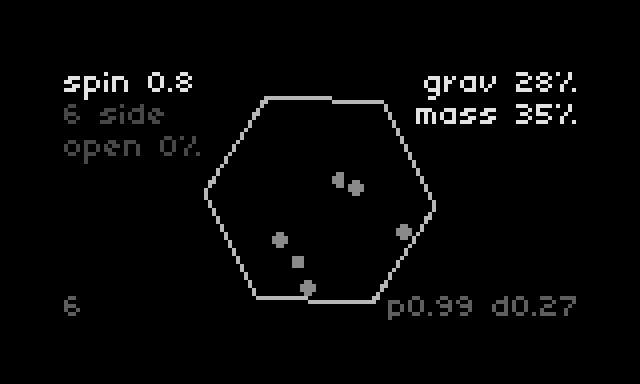
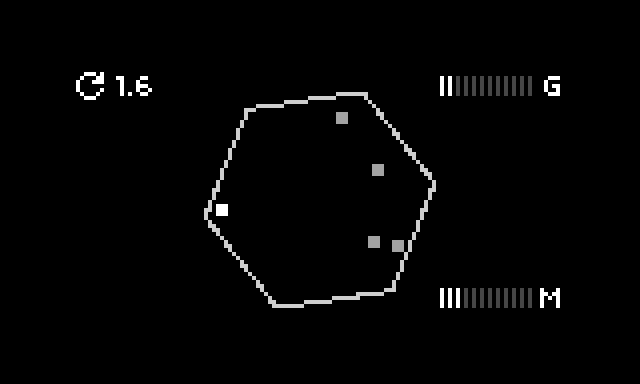
new screen, triangle opening fix, octaves, transpose and probability
- icon UI in lib/view.lua: spin arrow, G/M bars, K1 shows sides + open bottom left
- show cpu param replaces the debug row
- triangle no longer traps balls when opened (4+ sides unchanged)
- octaves (arp / random / by wall), transpose and probability params
- K2 always drops one ball
- updated screenshot

diff --git a/README.md b/README.md
@@ -6,9 +6,9 @@ a tombola sequencer for norns. drop notes into a spinning shape and they tumble 
 
 *rotere* is norwegian / danish for "to rotate, spin, revolve".
 
-![rotere on norns - early test screen](rotere1.png)
+![rotere on norns](rotere1.png)
 
-**work in progress** - playable and stable on norns, but the screen is still a test layout (words now, icons later) and things will change.
+**work in progress** - playable and stable on norns, things will change.
 
 ## controls
 
@@ -18,19 +18,22 @@ a tombola sequencer for norns. drop notes into a spinning shape and they tumble 
 - K1 + E2 - sides (3 to 8)
 - K1 + E3 - open (twist the walls and let the balls fall out)
 - K2 - drop a ball (random note from the scale)
-- K1 + K2 - drop 8
 - K3 - empty it
 - or play a midi keyboard - each key drops that note in
 
-the bottom row of the screen is debug for now: ball count, physics and draw time in ms.
+the screen keeps it simple: spin top left, gravity (G) and mass (M) on the right. hold K1 and sides + open show up bottom left.
 
 ## params
 
 - **input** - midi in device and channel (omni by default)
 - **output** - engine, midi, or engine + midi. midi device, channel and note length
-- **notes** - root and scale (balls already in there retune when you change it), quietest hit, pan width
+- **notes** - root and scale (balls already in there retune when you change it), octaves, octave pick, transpose, probability, quietest hit, pan width
+  - **octaves** - off, +1, +2, -1, -2, +/-1, +/-2. extra octaves a hit can land in
+  - **octave pick** - arp (each ball climbs through the octaves hit by hit), random, or by wall (each wall has its own octave, so it turns with the shape)
+  - **transpose** - +/-24 semitones, after the scale, so it shifts the key too
+  - **probability** - chance each hit actually plays. skipped hits don't flash, and don't move the arp along
 - **polyperc** - amp, release, cutoff, pw, gain
-- **physics** - gravity, mass, ball-on-ball notes (off by default, it gets busy)
+- **physics** - gravity, mass, ball-on-ball notes (off by default, it gets busy), show cpu (ball count and timings bottom left)
 
 ## notes
 
